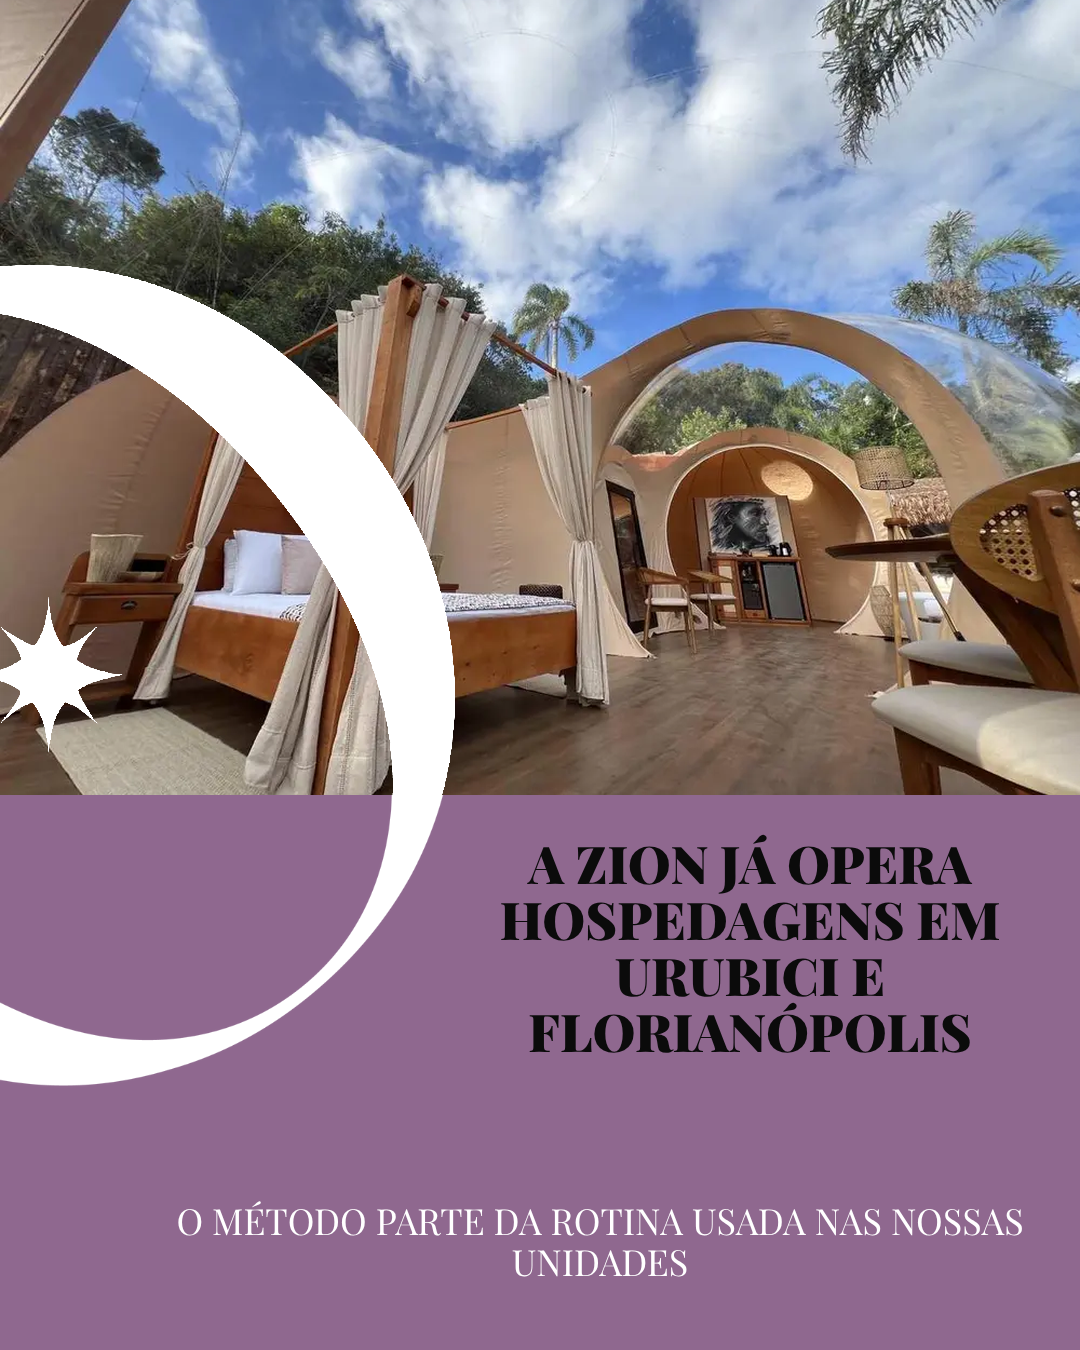
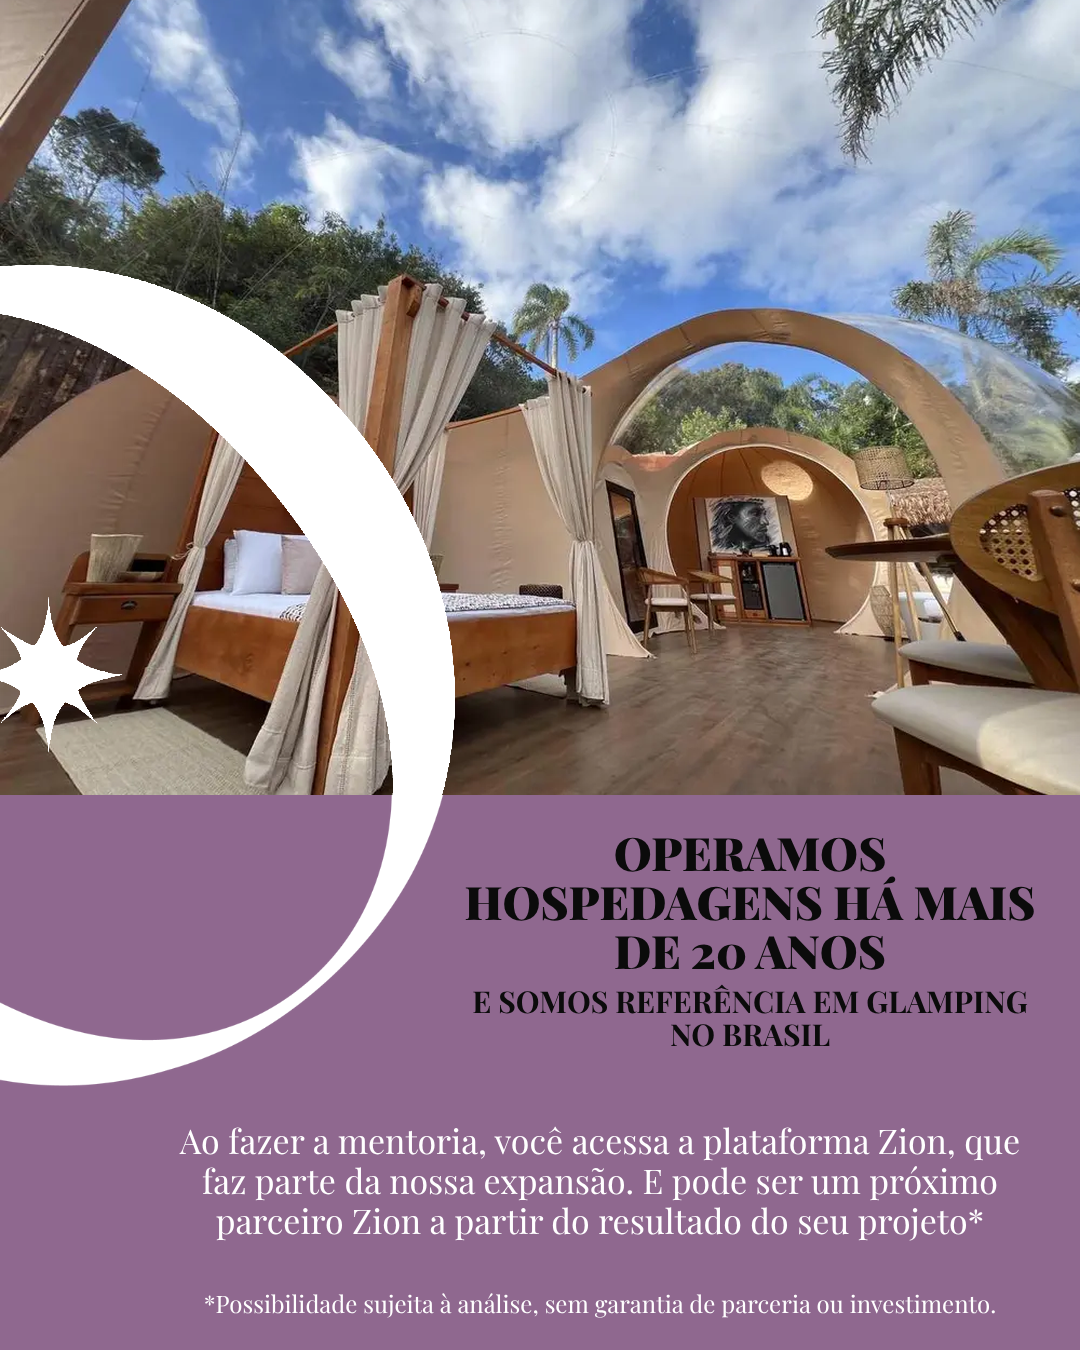
Carrossel C venda: cartão 4 com 20 anos, referência em glamping e plataforma Zion (ordem de Bruno)
Claude-Session: https://claude.ai/code/session_01BzUk5bYdjCT6eSVqUG9zKZ

diff --git a/docs/ads/venda-carrossel-c/build.js b/docs/ads/venda-carrossel-c/build.js
@@ -37,8 +37,10 @@ const cards=[
 <div class="b w" style="left:560px;width:470px;top:1100px;font-size:28px;color:#fff;font-weight:500;text-transform:none;line-height:1.25">Possibilidade de parcerias e investimento sujeita à análise de cada interessado. Sem garantia.</div>`],
 // 4 autoridade (original 6, foto trocada por foto real sem pessoas)
 [`o6.png`,`<div class="b" style="left:445px;top:795px;width:635px;height:555px;background:${PU}"></div><div class="b" style="left:150px;top:1160px;width:930px;height:190px;background:${PU}"></div>
-<div class="b s" style="left:455px;width:590px;top:835px;font-size:52px;font-weight:900;color:#0b0b0b;text-transform:uppercase;line-height:1.08">A Zion já opera hospedagens em Urubici e Florianópolis</div>
-<div class="b s" style="left:150px;width:900px;top:1200px;font-size:36px;color:#fff;text-transform:uppercase;line-height:1.15">O método parte da rotina usada nas nossas unidades</div>`],
+<div class="b s" style="left:455px;width:590px;top:828px;font-size:46px;font-weight:900;color:#0b0b0b;text-transform:uppercase;line-height:1.06">Operamos hospedagens há mais de 20 anos</div>
+<div class="b s" style="left:455px;width:590px;top:985px;font-size:30px;font-weight:700;color:#0b0b0b;text-transform:uppercase;line-height:1.1">e somos referência em glamping no Brasil</div>
+<div class="b s" style="left:160px;width:880px;top:1120px;font-size:34px;color:#fff;line-height:1.18">Ao fazer a mentoria, você acessa a plataforma Zion, que faz parte da nossa expansão. E pode ser um próximo parceiro Zion a partir do resultado do seu projeto*</div>
+<div class="b s" style="left:160px;width:880px;top:1290px;font-size:24px;color:#fff;line-height:1.1">*Possibilidade sujeita à análise, sem garantia de parceria ou investimento.</div>`],
 // 5 oportunidade (original 5): o que recebe
 [`o5.png`,`<div class="b" style="left:0;top:1102px;width:1080px;height:248px;background:${BE}"></div>
 <div class="b w" style="left:60px;right:60px;top:1128px;font-size:40px;color:#232c0a;font-weight:500">9 módulos, 70 aulas e materiais</div>

diff --git a/docs/ads/venda-carrossel-c/COPIES.md b/docs/ads/venda-carrossel-c/COPIES.md
@@ -21,7 +21,7 @@ Original = `docs/ads/inscricao-270/campeao-narrativa/carrossel-c-card-N.png` (ca
 1. Hook mantido ("Você tem um terreno em um destino turístico, mas não tem capital para desenvolver?"). Botão "INSCREVA SEU TERRENO" -> "MINI MENTORIA ZION · R$ 47"; linha "A Zion quer conhecer sua oportunidade" -> "Aprenda o passo a passo para estruturar o seu projeto".
 2. "Sozinho, isso não vira um negócio" -> "Estruturar o projeto se aprende, passo a passo". Acrescentado "Imagens ilustrativas".
 3. "conversar com investidores" -> "apresentar o terreno a potenciais parceiros e investidores"; "Terreno + Projeto = Destino" -> "Terreno + passo a passo = Projeto"; botão "Inscreva seu terreno" -> "Mini Mentoria Zion"; "Apresente o que você já tem" -> "Estruture o que você já tem"; "Projetos & oportunidades" -> "Aulas, fichas & ferramentas"; aviso "A Zion avalia cada caso" -> "Possibilidade de parcerias e investimento sujeita à análise de cada interessado. Sem garantia."
-4. FOTO TROCADA (original tinha mulher): foto real sem pessoas (store/dentro). Meia-lua e estrela do original preservadas. Mantido "A Zion já opera hospedagens em Urubici e Florianópolis" (fato do CLAUDE.md); "Mais de 20 anos de experiência internacional" (sem prova) -> "O método parte da rotina usada nas nossas unidades".
+4. FOTO TROCADA (original tinha mulher): foto real sem pessoas (store/dentro). Meia-lua e estrela do original preservadas. Texto (ordem de Bruno, 25/11): "Operamos hospedagens há mais de 20 anos" + "e somos referência em glamping no Brasil" (afirmações do dono, sem citar Urubici/Florianópolis) + "Ao fazer a mentoria, você acessa a plataforma Zion, que faz parte da nossa expansão. E pode ser um próximo parceiro Zion a partir do resultado do seu projeto*" com nota "*Possibilidade sujeita à análise, sem garantia de parceria ou investimento." (painel-comparacao.jpg ainda mostra a versão anterior do cartão 4).
 5. "Inscrições abertas para terrenos e projetos turísticos" -> "9 módulos, 70 aulas e materiais" / "12 meses de acesso · pagamento único".
 6. Caixa preta mantida ("Você não precisa começar construindo um hotel"); "Apresente seu projeto em uma sessão estratégica" -> "Aulas gravadas, fichas “Faça agora”, e-books por pilar, 2 planilhas em branco, Kit do Investidor e Dossiê em PDF". Acrescentado "Imagem ilustrativa".
 7. FOTO TROCADA (original tinha mulher): foto real sem pessoas (store/hero). "Inscrição R$ 270" / "Cadastre seu terreno ou projeto" -> "Mini Mentoria de Estruturação Zion", "R$ 47", "Pagamento único, sem mensalidade · Pix ou cartão · 12 meses de acesso · Garantia de 7 dias" e botão amarelo "QUERO ACESSAR A PLATAFORMA POR R$47".
